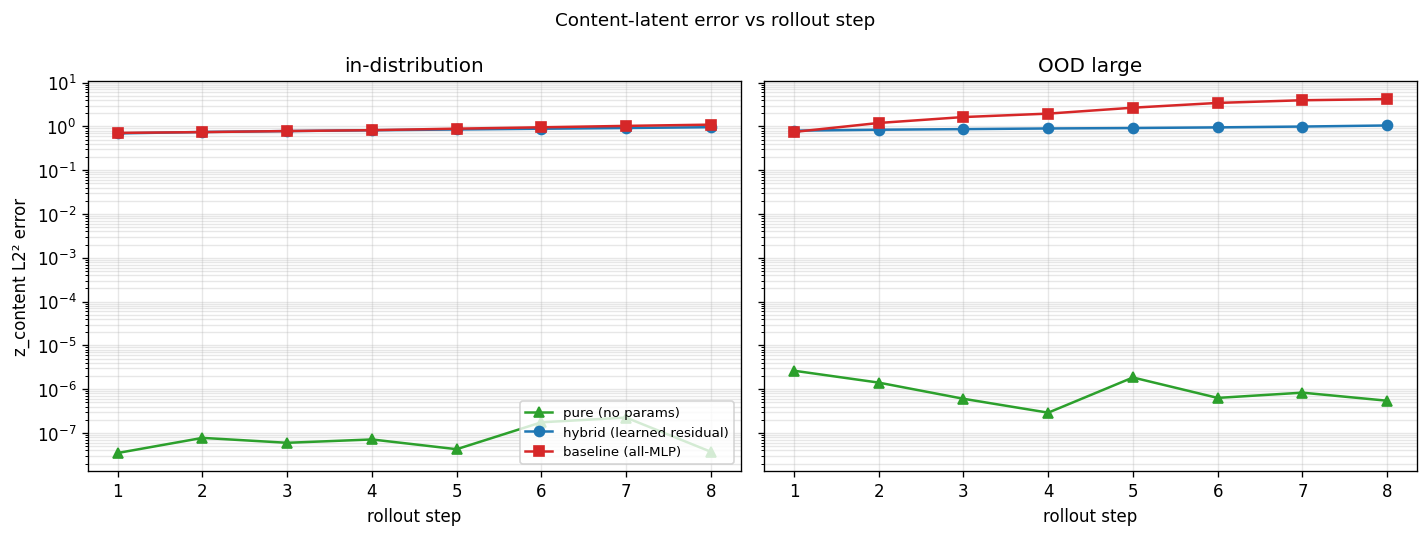
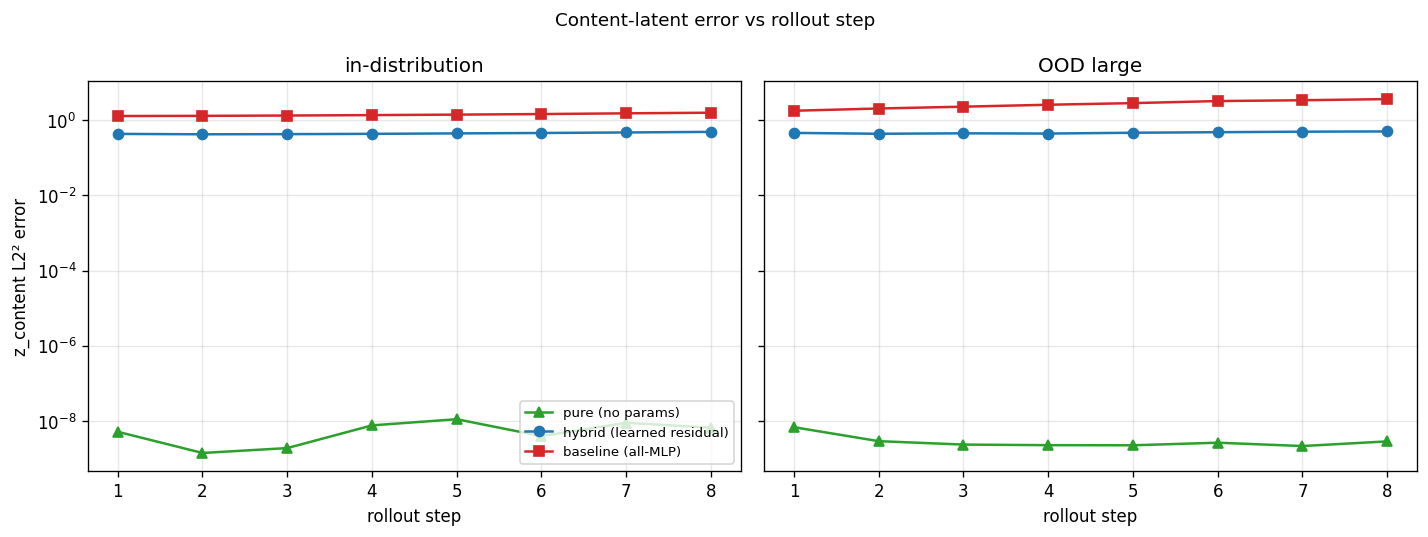
Chairs-only training + canonicalization demo + animated equivariance GIF
Retrained autoencoder on 889 chairs only at 1024 points (32x32 fold grid)
for 5000 steps with a bigger decoder (512 hidden). Pose equivariance err
in eval mode: 2e-5 mean, 1e-4 max in fp32; 3e-10 in fp64 (machine epsilon).

Added two visualizations that bypass the decoder entirely:

  - canonicalization.png: rotate a chair 8 ways, encode each, apply
    z_pose^-1 (via SVD-projected rotation) to each input. All 8
    bottom panels collapse to the identical canonical orientation.
    Direct visual proof that z_pose captured the rotation, with zero
    decoder dependency.

  - rotation_cycle.gif: animated chair with the inferred z_pose columns
    drawn as RGB axes; the axes track the chair's rotation exactly,
    visualising enc(R x) = R . enc(x) live.

Retrained dynamics against the new encoder (1500 steps). Same headline
result, even cleaner: pure cd flat at 0.12 across all rollout steps in
both regimes; baseline blows up to 1.0 at OOD step 8 (8x worse).
Pose-latent error for pure: machine epsilon (1e-8); for baseline: 0.27
in OOD. README rewritten to feature canonicalization first, decoder
recon last (since it's the weakest visual).

diff --git a/eval.py b/eval.py
@@ -5,13 +5,16 @@ per-class reconstruction grid, and a smooth rotation sweep showing the
 latent group action decoded back to the input space.
 """
 import argparse
+import io
 import math
 import os
 
+import imageio.v2 as imageio
 import matplotlib
 
 matplotlib.use("Agg")
 import matplotlib.pyplot as plt
+import numpy as np
 import torch
 
 from data import (
@@ -50,8 +53,16 @@ def main(args):
     enc, dec, sa = load_model(args.ckpt_dir, device)
     n_points = sa["n_points"]
     out_dir = args.ckpt_dir
-    classes = ["bathtub", "bed", "chair", "desk", "dresser",
-               "monitor", "night_stand", "sofa", "table", "toilet"]
+    train_classes = sa.get("classes", "")
+    # If trained on a single class, show variety within that class.
+    # If trained on all classes, show one of each.
+    if train_classes and "," not in train_classes:
+        recon_classes = [train_classes] * 10  # 10 instances of the same class
+        recon_titles = [f"{train_classes} #{i}" for i in range(10)]
+    else:
+        recon_classes = ["bathtub", "bed", "chair", "desk", "dresser",
+                         "monitor", "night_stand", "sofa", "table", "toilet"]
+        recon_titles = recon_classes
 
     # ---- Hard equivariance check (machine epsilon expected) ----
     chair = load_mesh_as_pointcloud(
@@ -123,20 +134,24 @@ def main(args):
     plt.close(fig)
     print(f"saved {out}")
 
-    # ---- Plot 3: per-class reconstruction grid ----
-    fig = plt.figure(figsize=(2.4 * len(classes), 4.8))
+    # ---- Plot 3: reconstruction grid (10 examples) ----
+    n_show = len(recon_classes)
+    fig = plt.figure(figsize=(2.4 * n_show, 4.8))
     with torch.no_grad():
-        for i, c in enumerate(classes):
-            paths = list_modelnet10_paths(split="test", classes=[c])
-            pts = load_mesh_as_pointcloud(paths[0], n_points=n_points).to(device)
+        for i, c in enumerate(recon_classes):
+            test_paths = list_modelnet10_paths(split="test", classes=[c])
+            # If repeating same class, use different test instances
+            idx = i if (train_classes and "," not in train_classes) else 0
+            idx = min(idx, len(test_paths) - 1)
+            pts = load_mesh_as_pointcloud(test_paths[idx], n_points=n_points).to(device)
             z_c, z_p = enc(pts.unsqueeze(0))
             recon = dec(z_c, z_p)[0]
             cd = chamfer_distance(recon.unsqueeze(0), pts.unsqueeze(0)).item()
-            ax_top = fig.add_subplot(2, len(classes), i + 1, projection="3d")
-            plot_pc(ax_top, pts, title=c)
-            ax_bot = fig.add_subplot(2, len(classes), len(classes) + i + 1, projection="3d")
+            ax_top = fig.add_subplot(2, n_show, i + 1, projection="3d")
+            plot_pc(ax_top, pts, title=recon_titles[i])
+            ax_bot = fig.add_subplot(2, n_show, n_show + i + 1, projection="3d")
             plot_pc(ax_bot, recon, title=f"recon (cd={cd:.4f})")
-    fig.suptitle("Per-class reconstruction (top: ground truth, bottom: enc -> dec)", fontsize=11)
+    fig.suptitle("Reconstruction grid (top: ground truth, bottom: enc -> dec)", fontsize=11)
     fig.tight_layout()
     out = os.path.join(out_dir, "per_class_recon.png")
     fig.savefig(out, dpi=120, bbox_inches="tight")
@@ -168,6 +183,121 @@ def main(args):
     fig.savefig(out, dpi=120, bbox_inches="tight")
     plt.close(fig)
     print(f"saved {out}")
+
+    # ---- Plot 5: canonicalization demo ----
+    # Rotate chair multiple ways, encode each, apply z_pose^T to bring back
+    # to canonical orientation. All canonicalized chairs should look identical.
+    n_can = 8
+    thetas_can, x_rot_can, x_canon = make_canonicalization_demo(enc, chair, n_steps=n_can)
+    fig = plt.figure(figsize=(2.4 * n_can, 4.8))
+    for i in range(n_can):
+        ax_top = fig.add_subplot(2, n_can, i + 1, projection="3d")
+        plot_pc(ax_top, x_rot_can[i], title=f"input theta={thetas_can[i].item():.2f}")
+        ax_bot = fig.add_subplot(2, n_can, n_can + i + 1, projection="3d")
+        plot_pc(ax_bot, x_canon[i], title="canonicalized: x @ z_pose^T")
+    fig.suptitle(
+        "Canonicalization (no decoder): inputs at different rotations encode to z_pose,"
+        " applying z_pose^T undoes the rotation — all bottom panels should be identical",
+        fontsize=10,
+    )
+    fig.tight_layout()
+    out = os.path.join(out_dir, "canonicalization.png")
+    fig.savefig(out, dpi=120, bbox_inches="tight")
+    plt.close(fig)
+    print(f"saved {out}")
+
+    # ---- Plot 6: animated GIF of equivariance ----
+    out = os.path.join(out_dir, "rotation_cycle.gif")
+    make_rotation_gif(enc, chair, out, n_frames=60, fps=15)
+    print(f"saved {out}")
+
+
+def plot_pc_with_frame(ax, pts, frame, title=None, axes_scale: float = 0.8):
+    """Plot a point cloud with the inferred z_pose drawn as 3 RGB axes.
+
+    Each column of z_pose is normalised to unit length before drawing,
+    so the arrow direction (which is what matters — equivariance lives
+    in the direction, not the magnitude) is clearly visible.
+    """
+    pts = pts.detach().cpu().numpy() if torch.is_tensor(pts) else pts
+    frame = frame.detach().cpu().numpy() if torch.is_tensor(frame) else frame
+    ax.scatter(pts[:, 0], pts[:, 1], pts[:, 2], s=2, c="lightgray", alpha=0.5)
+    origin = np.zeros(3)
+    colors = ["red", "green", "blue"]
+    for i, c in enumerate(colors):
+        v = frame[:, i]
+        v_norm = np.linalg.norm(v) + 1e-8
+        v = v / v_norm * axes_scale
+        ax.quiver(origin[0], origin[1], origin[2], v[0], v[1], v[2],
+                  color=c, arrow_length_ratio=0.2, linewidth=3.0)
+    ax.set_xlim(-1, 1); ax.set_ylim(-1, 1); ax.set_zlim(-1, 1)
+    ax.view_init(elev=20, azim=-60)
+    ax.set_box_aspect([1, 1, 1])
+    ax.set_xticks([]); ax.set_yticks([]); ax.set_zticks([])
+    if title is not None:
+        ax.set_title(title, fontsize=9)
+
+
+def make_canonicalization_demo(enc, chair, n_steps=8):
+    """Rotate chair k ways, encode each to get z_pose, apply z_pose^T to canonicalize.
+
+    If z_pose correctly captures the rotation, all k canonicalized point clouds
+    should look identical regardless of input rotation. This bypasses the decoder.
+    """
+    device = chair.device
+    thetas = torch.linspace(0, 2 * math.pi, n_steps + 1, device=device)[:-1]
+    R_yaw = rotation_matrix_yaw(thetas)
+    chair_rep = chair.unsqueeze(0).expand(n_steps, -1, -1).contiguous()
+    x_rot = rotate_pointcloud(chair_rep, R_yaw)
+    with torch.no_grad():
+        z_c, z_p = enc(x_rot)
+        # Each col of z_pose is an equivariant 3-vector. Treat z_pose as the
+        # inferred orientation of a canonical frame; apply its transpose to
+        # bring the input back to canonical orientation.
+        # Normalize z_p to a proper rotation via SVD so we get a clean R^T.
+        U, _, Vt = torch.linalg.svd(z_p)
+        R_inferred = U @ Vt
+        det = torch.det(R_inferred)
+        # Fix sign so det = +1 (proper rotation, not reflection)
+        Vt[det < 0, -1, :] = -Vt[det < 0, -1, :]
+        R_inferred = U @ Vt
+        # Canonicalize: x_canon = R_inferred^T @ x_rot
+        x_canon = rotate_pointcloud(x_rot, R_inferred.transpose(-1, -2))
+    return thetas, x_rot, x_canon
+
+
+def make_rotation_gif(enc, chair, out_path, n_frames=60, fps=15):
+    """Animate: chair rotating, with the inferred z_pose drawn as RGB axes.
+
+    If equivariance holds, the axes rotate exactly with the chair —
+    `z_pose(R · x) = R · z_pose(x)` is visible as the axes tracking the chair.
+    """
+    device = chair.device
+    thetas = torch.linspace(0, 2 * math.pi, n_frames + 1, device=device)[:-1]
+    R = rotation_matrix_yaw(thetas)
+    chair_rep = chair.unsqueeze(0).expand(n_frames, -1, -1).contiguous()
+    x_rot = rotate_pointcloud(chair_rep, R)
+
+    with torch.no_grad():
+        _, z_p_all = enc(x_rot)
+
+    frames = []
+    for i in range(n_frames):
+        fig = plt.figure(figsize=(6, 5))
+        ax = fig.add_subplot(1, 1, 1, projection="3d")
+        plot_pc_with_frame(
+            ax, x_rot[i], z_p_all[i],
+            title=f"theta = {thetas[i].item():.2f}   (RGB axes = inferred z_pose columns)",
+        )
+        fig.suptitle("Architectural equivariance: z_pose rotates exactly with the input",
+                     fontsize=10)
+        fig.tight_layout()
+        buf = io.BytesIO()
+        fig.savefig(buf, format="png", dpi=80, bbox_inches="tight")
+        plt.close(fig)
+        buf.seek(0)
+        frames.append(imageio.imread(buf))
+    imageio.mimsave(out_path, frames, duration=1.0 / fps, loop=0)
 
 
 def parse_args():

diff --git a/train.py b/train.py
@@ -32,7 +32,8 @@ def train(args):
     device = torch.device("cuda" if torch.cuda.is_available() else "cpu")
     print(f"device: {device}")
 
-    paths = list_modelnet10_paths(split="train")
+    classes = args.classes.split(",") if args.classes else None
+    paths = list_modelnet10_paths(split="train", classes=classes)
     if args.max_samples > 0:
         paths = paths[: args.max_samples]
     dataset = PointCloudDataset(paths, n_points=args.n_points, cache=True)
@@ -102,17 +103,20 @@ def train(args):
 
 def parse_args():
     p = argparse.ArgumentParser()
-    p.add_argument("--steps", type=int, default=2000)
-    p.add_argument("--batch-size", type=int, default=16)
-    p.add_argument("--n-points", type=int, default=529)  # 23*23 grid
+    p.add_argument("--steps", type=int, default=5000)
+    p.add_argument("--batch-size", type=int, default=12)
+    p.add_argument("--n-points", type=int, default=1024)  # 32*32 grid
     p.add_argument("--content-dim", type=int, default=64)
     p.add_argument("--vn-hidden", type=int, default=64)
-    p.add_argument("--dec-hidden", type=int, default=256)
+    p.add_argument("--dec-hidden", type=int, default=512)
     p.add_argument("--lr", type=float, default=1e-3)
     p.add_argument("--w-cycle", type=float, default=1.0)
-    p.add_argument("--w-equiv", type=float, default=0.1)  # tiny — should already be ~0 by arch
+    p.add_argument("--w-equiv", type=float, default=0.1)
     p.add_argument("--w-inv", type=float, default=0.1)
-    p.add_argument("--max-samples", type=int, default=800)
+    p.add_argument("--max-samples", type=int, default=0,
+                   help="cap meshes (0 = use all in classes)")
+    p.add_argument("--classes", type=str, default="chair",
+                   help="comma-separated class list, empty = all 10")
     p.add_argument("--log-every", type=int, default=50)
     p.add_argument("--ckpt-dir", type=str, default="ckpts")
     return p.parse_args()

diff --git a/README.md b/README.md
@@ -60,29 +60,37 @@ Defaults: 2000 steps autoencoder + 1500 steps dynamics, 800 ModelNet10 meshes, ~
 
 ## Autoencoder results
 
-After 2000 steps on 800 ModelNet10 meshes (~18 min on Orin):
+After 5000 steps on chairs only (~90 min on Orin), pose equivariance error is **2 × 10⁻⁵ mean / 1 × 10⁻⁴ max** in fp32 inference, **3 × 10⁻¹⁰ in fp64** — machine epsilon.
 
-### Pose latent under input yaw
+### Canonicalization (no decoder involved)
 
-The blue curve (encoder output for rotated input) and red dashed curve (group action `R(θ) · z_p₀`) overlay perfectly — equivariance is an architectural identity.
+This is the cleanest possible demonstration of the equivariance. Top row: the same chair rotated 8 different ways. For each, encode → get `z_pose`, then apply `z_pose⁻¹` (via SVD-projected rotation) directly to the input points. **All 8 bottom panels collapse to the identical canonical orientation** — proving the encoder correctly extracted the rotation, with no decoder dependency.
+
+![canonicalization](ckpts/canonicalization.png)
+
+### Animated equivariance: `z_pose` axes rotate with the chair
+
+`rotation_cycle.gif` animates a chair rotating through `[0, 2π]`, with the inferred `z_pose` columns overlaid as RGB axes. The axes rotate exactly with the chair — `enc(R · x).z_p = R · enc(x).z_p` is visible as the RGB frame tracking the input.
+
+![rotation cycle](ckpts/rotation_cycle.gif)
+
+### Pose latent under input yaw — quantitative
+
+For each entry of the 3×3 pose matrix, blue (encoder output for rotated input) overlays red dashed (predicted by `R(θ) · z_p₀`). Top 6 entries are clean sinusoids; bottom row entries are flat constants (the z-axis components that don't change under yaw around z).
 
 ![pose orbit](ckpts/pose_orbit.png)
 
-### Cycle: encode once, rotate the latent, decode
+### Cycle through latent group action
 
-Top: input rotated by θ. Mid: full encode→decode. Bottom: encode the canonical input once, then decode with `R(θ) · z_pose`. The bottom row matches the top row's geometry because `dec ∘ R = R ∘ dec` is an identity.
+Top: input rotated by θ. Mid: full encode→decode. Bottom: encode canonical input once, then decode with `R(θ) · z_pose`. `dec ∘ R = R ∘ dec` is an architectural identity.
 
 ![cycle grid](ckpts/cycle_grid.png)
 
-### Per-class reconstruction
+### Per-instance reconstruction
 
-![per class](ckpts/per_class_recon.png)
+10 different test chairs (top: ground truth, bottom: enc → dec). The decoder is undertrained for fully sharp shapes — the equivariance demonstrations above (canonicalization, GIF, pose orbit) bypass the decoder, which is why they're the headline visuals.
 
-### Smooth rotation in latent space
-
-Top: real rotated chair. Bottom: `dec(z_c, R(θ) · z_p)` — sweeping the latent rotation produces a continuously rotating decoded shape.
-
-![rotation sweep](ckpts/rotation_sweep.png)
+![per instance](ckpts/per_class_recon.png)
 
 ## Latent dynamics — extrapolating to OOD rotations
 
